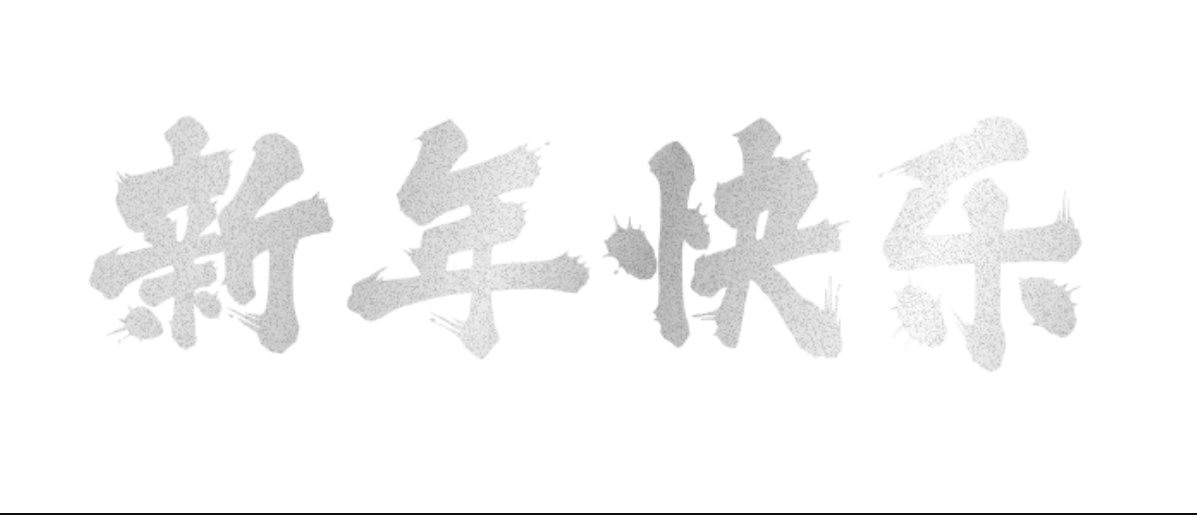
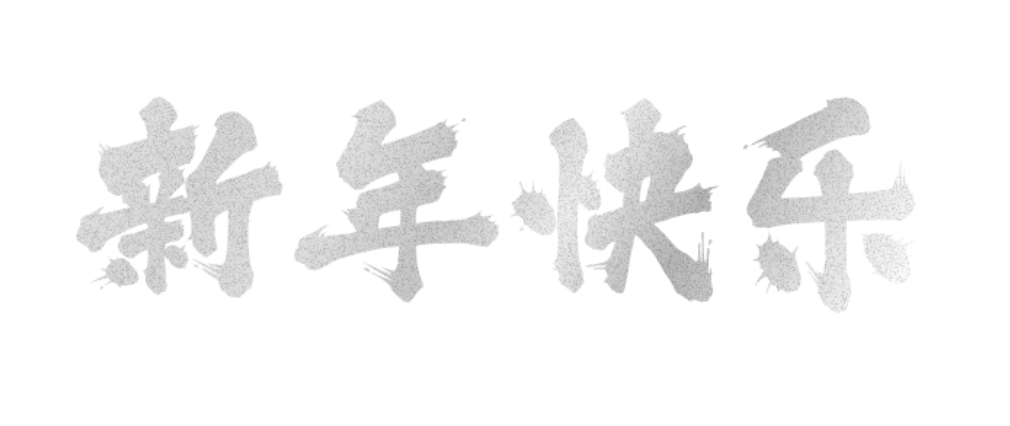
docs(README): 更新文档以展示不同字体颜色和背景的使用方法
- 添加了金色、银色、黑色和黑色渐变字体的示例
- 增加了默认字体和春联背景的示例
- 优化了文档结构，使用 details 和 summary 标签进行折叠展示
- 添加了图片说明，使文档更加直观易懂

diff --git a/README.md b/README.md
@@ -1,28 +1,84 @@
 <img src="./image/gold-foil-font-api.png" width="800" />
 
-# <span style="background: linear-gradient(to right, #c2a52e, #e8c657, #ead26d, #eed46f, #c0a03a, #d9b35b, #f8e17c); -webkit-background-clip: text; color: transparent;">gold-foil-font-api - 烫金字体 API, 为新年欢呼 !</span>
+[//]: # (# gold-foil-font-api - 烫金字体 API, 为新年欢呼!)
 
-[//]: # (金色展示)
-<details>
-<summary>
-<span style="background: linear-gradient(to right, #c2a52e, #e8c657, #ead26d, #eed46f, #c0a03a, #d9b35b, #f8e17c); -webkit-background-clip: text; color: transparent;">金色 ➽</span>
-</summary>
+<img src="./image/gold-foil-font-api description chinese.png" width="800" />
+<img src="./image/gold-foil-font-api description english.png" width="800" />
+
+<details open>
+<summary>修改字体颜色 ➽</summary>
+
+[//]: # (## 金色展示)
+<details open>
+<summary>金色 ➽</summary>
+<p>修改参数 text 为想要的字即可, 无需加其他参数, 例如:</p>
+
+http://localhost:8080/api/gold-foil-image?text=新年快乐
+
+<img src="./image/happy new year gold.png" width="800" />
+</details>
+
+[//]: # (## 银色展示)
+<details open>
+<summary>银色 ➽</summary>
+<p>修改参数 text 为想要的字, 需要将参数 fontColorType 设置为 silver, 例如:</p>
+
+http://localhost:8080/api/gold-foil-image?text=新年快乐&fontColorType=silver
+
 <img src="./image/happy new year silver.png" width="800" />
 </details>
 
-[//]: # (黑色展示)
-<details>
-<summary>
-<span style="background: linear-gradient(to right, #c2a52e, #e8c657, #ead26d, #eed46f, #c0a03a, #d9b35b, #f8e17c); -webkit-background-clip: text; color: transparent;">黑色 ➽</span>
-</summary>
+[//]: # (## 黑色展示)
+<details open>
+<summary>黑色 ➽</summary>
+<p>修改参数 text 为想要的字, 需要将参数 fontColorType 设置为 black, 例如:</p>
+
+http://localhost:8080/api/gold-foil-image?text=新年快乐&fontColorType=black
+
+
 <img src="./image/happy new year black.png" width="800" />
 </details>
 
+[//]: # (## 黑色渐变展示)
+<details open>
+<summary>黑色渐变 ➽</summary>
+<p>修改参数 text 为想要的字, 需要将参数 fontColorType 设置为 blackGradient, 例如:</p>
 
-[//]: # (黑色渐变展示)
-<details>
-<summary>
-<span style="background: linear-gradient(to right, #c2a52e, #e8c657, #ead26d, #eed46f, #c0a03a, #d9b35b, #f8e17c); -webkit-background-clip: text; color: transparent;">黑色渐变 ➽</span>
-</summary>
+http://localhost:8080/api/gold-foil-image?text=新年快乐&fontColorType=blackGradient
+
+
 <img src="./image/happy new year blackGradient.png" width="800" />
+</details>
+
+
+</details>
+
+<details open>
+<summary>修改字体内容 ➽</summary>
+
+[//]: # (## 默认字体)
+<details open>
+<summary>默认字体 ➽</summary>
+<p>修改参数 text 为想要的字即可, 无需加其他参数, 例如:</p>
+
+http://localhost:8080/api/gold-foil-image?text=66大顺
+
+<img src="./image/66大顺.png" width="800" />
+</details>
+
+</details>
+
+<details open>
+<summary>修改背景颜色 ➽</summary>
+
+[//]: # (## 春联背景)
+<details open>
+<summary>春联背景 ➽</summary>
+<p>添加参数 background 为 spring, 例如:</p>
+
+http://localhost:8080/api/gold-foil-image?text=66大顺
+
+<img src="./image/66大顺.png" width="800" />
+</details>
+
 </details>
